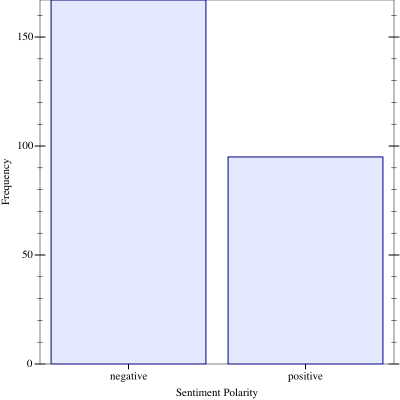
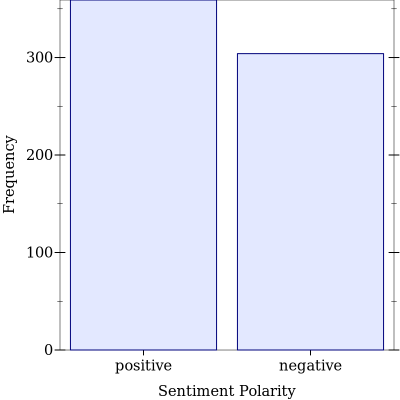
Proper example of bing and AFINN sentiment

Changed region(s): [[0.0, 0.0, 1.0, 1.0], [0.96, 0.09, 1.0, 0.15]]

diff --git a/README.md b/README.md
@@ -468,8 +468,9 @@ Individual functions, documented below, offer fine-grained control over analysis
 ```racket
 ;;; Or, use the bing lexicon to determine the ratio of
 ;;; positive-to-negative words 
+(define sentiment (filter (λ (x) (first x)) (list->sentiment words #:lexicon 'bing)))
 (plot (discrete-histogram
-       (sorted-counts (filter (λ (x) x) (list->sentiment words #:lexicon 'bing))))
+       (aggregate sum (map first sentiment) (map second sentiment)))
       #:x-label "Sentiment Polarity"
       #:y-label "Frequency")
 ```
@@ -479,8 +480,9 @@ Individual functions, documented below, offer fine-grained control over analysis
 ```racket
 ;;; Or, use the AFINN lexicon to determine the document's
 ;;; affective polarity
-(apply + (list->sentiment words #:lexicon 'AFINN))
-;;; --> -62
+(define sentiment (filter (λ (x) (first x)) (list->sentiment words #:lexicon 'AFINN)))
+(sum (map (λ (x) (* (first x) (second x))) sentiment))
+;;; --> 92
 ```
 
 ### document->tokens
